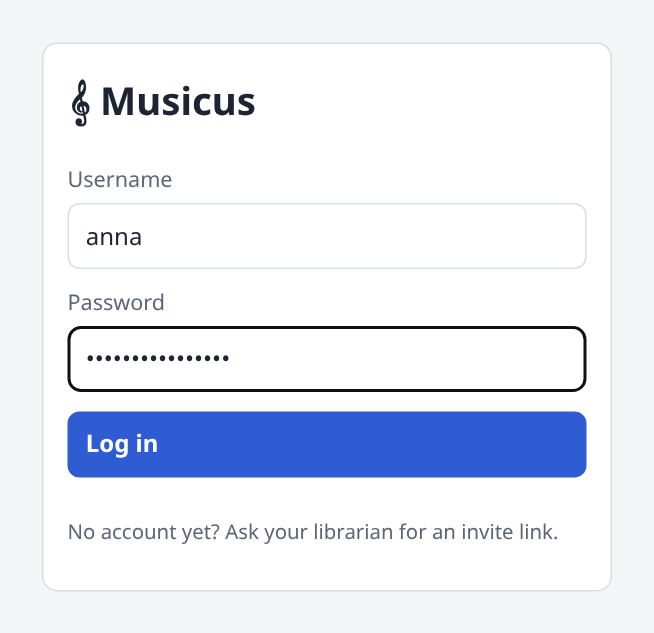
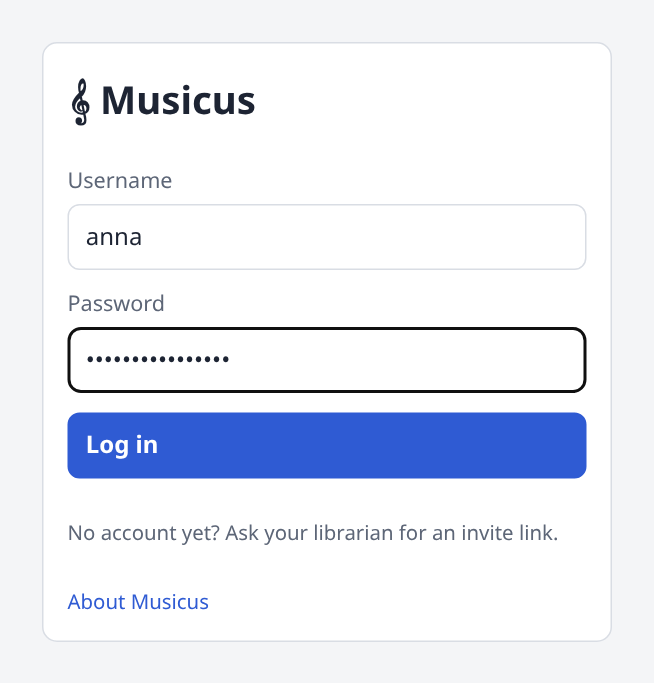
Version on the title page from the build; About Musicus
build.sh takes the version as argument, $MUSICUS_VERSION, the main
repository's workspace version, or "dev", and passes it to Typst
(--input version). The guide describes the About Musicus page (login page
and account page) and where to find the running version; new screenshot
about.png, login.png and member-account.png regenerated.

Claude-Session: https://claude.ai/code/session_01SUyQxQVi6w79TzqzgsJ3i1

diff --git a/README.md b/README.md
@@ -11,7 +11,14 @@ This repository is the submodule `docs/user-guide` of the main repository.
 
 ```sh
 ./build.sh          # → out/musicus-user-guide.html and out/musicus-user-guide.pdf
+./build.sh 1.2.0    # the same, with the release version 1.2.0 on the title page
 ```
+
+The title page names the Musicus version (`typst --input version=…`, read in
+`main.typ`): the first argument of `build.sh`, else `$MUSICUS_VERSION` (the
+guide site passes the release's version), else the workspace version of the
+main repository's `Cargo.toml` when this is its submodule, else "dev" (a
+development version).
 
 Requires `typst` (tested with 0.15; `cargo install --locked typst-cli`). The HTML
 export of Typst is still marked experimental, hence `--features html`. The
